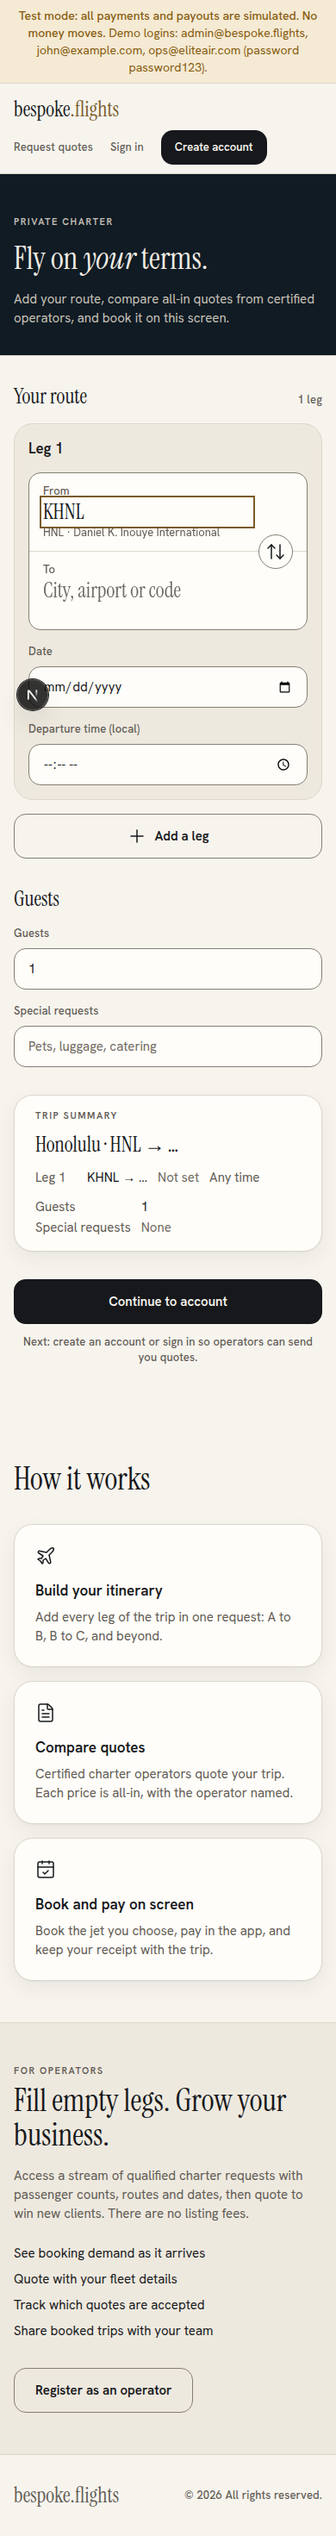
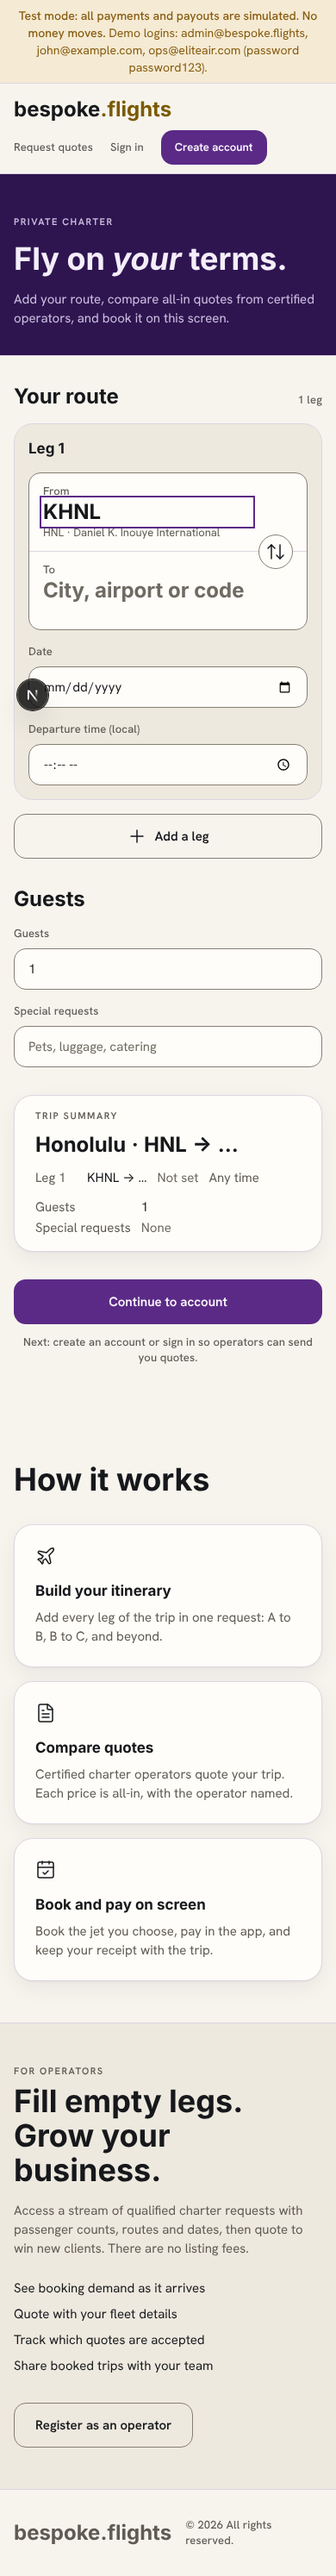
Restyle with royal purple main color, gold accent, Helvetica bold headings
- Night surfaces become deep royal purple; new royal/on-royal tokens for
  primary buttons and selected states.
- Brass tokens shift to gold; contrast verified at WCAG AA.
- h1-h6 and display type use Helvetica bold; drop Instrument Serif.
- Refresh docs/screenshots via scripts/visual-check.mjs (no issues).

Claude-Session: https://claude.ai/code/session_01WCo67zoRmPRsbrwgSXeFrv

diff --git a/src/app/globals.css b/src/app/globals.css
@@ -2,6 +2,7 @@
 
 /*
  * "Charter" design system tokens.
+ * Royal purple is the main color; gold (the --brass tokens) is the accent.
  * Light is the default; dark follows prefers-color-scheme. Set
  * data-theme="light" or data-theme="dark" on <html> to override the system.
  */
@@ -9,19 +10,21 @@
   --surface: #f7f4ee;
   --surface-raised: #fffdf9;
   --surface-sunken: #eee9df;
-  --night: #101b24;
+  --night: #2e1550;
   --ink: #16181b;
   --ink-muted: #5f5b54;
   --ink-subtle: #6f6a62;
   --on-ink: #f7f4ee;
-  --on-night: #f2ede4;
-  --on-night-muted: #c8c2b8;
-  --hairline: #ddd6ca;
+  --royal: #5b2a86;
+  --on-royal: #fbf8ff;
+  --on-night: #f4eefa;
+  --on-night-muted: #cdbfe0;
+  --hairline: #ddd5e2;
   --border-control: #857e72;
-  --brass: #b08d55;
-  --brass-ink: #7a5b28;
-  --on-brass: #16181b;
-  --focus: #7a5b28;
+  --brass: #d4af37;
+  --brass-ink: #7a5a00;
+  --on-brass: #1b0f2b;
+  --focus: #5b2a86;
   --confirmed: #1d5f73;
   --confirmed-tint: #e2edef;
   --warning: #855a0e;
@@ -33,22 +36,24 @@
 }
 @media (prefers-color-scheme: dark) {
   :root:not([data-theme="light"]) {
-    --surface: #0e1114;
-    --surface-raised: #171b20;
-    --surface-sunken: #090b0d;
-    --night: #16222c;
+    --surface: #100c16;
+    --surface-raised: #1a1522;
+    --surface-sunken: #09070d;
+    --night: #26113f;
     --ink: #f2ede4;
     --ink-muted: #a8a299;
     --ink-subtle: #8e887f;
-    --on-ink: #0e1114;
+    --on-ink: #100c16;
+    --royal: #a77ddb;
+    --on-royal: #120a1c;
     --on-night: #f2ede4;
-    --on-night-muted: #c8c2b8;
-    --hairline: #2a2f36;
-    --border-control: #6e6960;
-    --brass: #c9a66b;
-    --brass-ink: #d4b47a;
-  --on-brass: #0e1114;
-    --focus: #d4b47a;
+    --on-night-muted: #c9bcd9;
+    --hairline: #2e2638;
+    --border-control: #6f6580;
+    --brass: #e0bd52;
+    --brass-ink: #e6c766;
+    --on-brass: #120a1c;
+    --focus: #b994e6;
     --confirmed: #7fbccc;
     --confirmed-tint: #122a31;
     --warning: #deb05a;
@@ -60,22 +65,24 @@
   }
 }
 [data-theme="dark"] {
-  --surface: #0e1114;
-  --surface-raised: #171b20;
-  --surface-sunken: #090b0d;
-  --night: #16222c;
+  --surface: #100c16;
+  --surface-raised: #1a1522;
+  --surface-sunken: #09070d;
+  --night: #26113f;
   --ink: #f2ede4;
   --ink-muted: #a8a299;
   --ink-subtle: #8e887f;
-  --on-ink: #0e1114;
+  --on-ink: #100c16;
+  --royal: #a77ddb;
+  --on-royal: #120a1c;
   --on-night: #f2ede4;
-  --on-night-muted: #c8c2b8;
-  --hairline: #2a2f36;
-  --border-control: #6e6960;
-  --brass: #c9a66b;
-  --brass-ink: #d4b47a;
-  --on-brass: #0e1114;
-  --focus: #d4b47a;
+  --on-night-muted: #c9bcd9;
+  --hairline: #2e2638;
+  --border-control: #6f6580;
+  --brass: #e0bd52;
+  --brass-ink: #e6c766;
+  --on-brass: #120a1c;
+  --focus: #b994e6;
   --confirmed: #7fbccc;
   --confirmed-tint: #122a31;
   --warning: #deb05a;
@@ -95,6 +102,8 @@
   --color-ink-muted: var(--ink-muted);
   --color-ink-subtle: var(--ink-subtle);
   --color-on-ink: var(--on-ink);
+  --color-royal: var(--royal);
+  --color-on-royal: var(--on-royal);
   --color-on-night: var(--on-night);
   --color-on-night-muted: var(--on-night-muted);
   --color-hairline: var(--hairline);
@@ -115,7 +124,7 @@
   --radius-pill: 999px;
   --shadow-raised: var(--ds-shadow-raised);
   --shadow-float: var(--ds-shadow-float);
-  --font-display: var(--font-instrument-serif), "Iowan Old Style", Georgia, serif;
+  --font-display: "Helvetica Neue", Helvetica, Arial, sans-serif;
   --font-sans: var(--font-hanken-grotesk), -apple-system, "Helvetica Neue", sans-serif;
 }
 
@@ -140,20 +149,20 @@
   font-family: var(--font-display);
   font-size: 56px;
   line-height: 60px;
-  font-weight: 400;
+  font-weight: 700;
   letter-spacing: -0.01em;
 }
 @utility text-display {
   font-family: var(--font-display);
   font-size: 36px;
   line-height: 40px;
-  font-weight: 400;
+  font-weight: 700;
 }
 @utility text-title {
   font-family: var(--font-display);
   font-size: 24px;
   line-height: 30px;
-  font-weight: 400;
+  font-weight: 700;
 }
 @utility text-heading {
   font-family: var(--font-sans);
@@ -197,6 +206,12 @@ body {
   -webkit-font-smoothing: antialiased;
 }
 
+/* Headings: Helvetica bold, whatever type-scale utility they carry. */
+h1, h2, h3, h4, h5, h6 {
+  font-family: var(--font-display);
+  font-weight: 700;
+}
+
 /* Focus ring on every interactive element. */
 :focus-visible {
   outline: 2px solid var(--focus);
@@ -225,6 +240,8 @@ body {
     --ink-subtle: #333;
     --hairline: #999;
     --brass-ink: #000;
+    --royal: #000;
+    --on-royal: #fff;
     --danger: #000;
     --danger-tint: #fff;
   }

diff --git a/src/app/layout.tsx b/src/app/layout.tsx
@@ -1,14 +1,7 @@
 import type { Metadata } from "next";
-import { Hanken_Grotesk, Instrument_Serif } from "next/font/google";
+import { Hanken_Grotesk } from "next/font/google";
 import "./globals.css";
 import { TestModeBanner } from "@/components/layout/test-mode-banner";
-
-const instrumentSerif = Instrument_Serif({
-  variable: "--font-instrument-serif",
-  subsets: ["latin"],
-  weight: "400",
-  style: ["normal", "italic"],
-});
 
 const hankenGrotesk = Hanken_Grotesk({
   variable: "--font-hanken-grotesk",
@@ -27,7 +20,7 @@ export default function RootLayout({
   children: React.ReactNode;
 }>) {
   return (
-    <html lang="en" className={`${instrumentSerif.variable} ${hankenGrotesk.variable} h-full`}>
+    <html lang="en" className={`${hankenGrotesk.variable} h-full`}>
       <body className="min-h-full flex flex-col font-sans text-body antialiased">
         <TestModeBanner />
         {children}

diff --git a/src/app/(operator)/operator/dashboard/page.tsx b/src/app/(operator)/operator/dashboard/page.tsx
@@ -54,7 +54,7 @@ export default async function OperatorDashboardPage() {
                 Configure your markets, fleet types, safety rating, and contact method so the matching engine can route charter requests to you automatically.
               </p>
             </div>
-            <Link href="/operator/settings" className="rounded-md bg-ink px-4 py-2 text-sm font-semibold text-on-ink hover:opacity-90 transition-colors shrink-0">
+            <Link href="/operator/settings" className="rounded-md bg-royal px-4 py-2 text-sm font-semibold text-on-royal hover:opacity-90 transition-colors shrink-0">
               Configure →
             </Link>
           </div>

diff --git a/src/components/ui/button-styles.ts b/src/components/ui/button-styles.ts
@@ -7,7 +7,7 @@ const base =
   'aria-disabled:opacity-40 aria-disabled:cursor-not-allowed';
 
 const variants: Record<ButtonVariant, string> = {
-  primary: 'bg-ink text-on-ink hover:opacity-90',
+  primary: 'bg-royal text-on-royal hover:opacity-90',
   secondary: 'bg-transparent border border-border-control text-ink hover:bg-surface-sunken',
   quiet: 'bg-transparent text-brass-ink hover:underline underline-offset-4',
   // Destructive confirmation (admin refunds). Not part of the traveler flows.

diff --git a/src/app/(operator)/operator/settings/page.tsx b/src/app/(operator)/operator/settings/page.tsx
@@ -89,7 +89,7 @@ export default function OperatorSettingsPage() {
                   onClick={() => save({ contact_method: method })}
                   className={`flex-1 py-3 text-sm font-medium transition-colors cursor-pointer capitalize ${
                     settings.contact_method === method
-                      ? 'bg-ink text-on-ink'
+                      ? 'bg-royal text-on-royal'
                       : 'text-ink-muted hover:text-ink'
                   }`}
                 >

diff --git a/src/components/ui/segmented.tsx b/src/components/ui/segmented.tsx
@@ -29,7 +29,7 @@ export function Segmented({
             aria-pressed={selected}
             onClick={() => onChange(opt.value)}
             className={`min-h-11 flex-1 rounded-sm px-3 text-label transition-colors duration-200 ease-out cursor-pointer ${
-              selected ? 'bg-ink text-on-ink' : 'text-ink-muted hover:text-ink'
+              selected ? 'bg-royal text-on-royal' : 'text-ink-muted hover:text-ink'
             }`}
           >
             {opt.label}

diff --git a/src/components/operator/print-button.tsx b/src/components/operator/print-button.tsx
@@ -5,7 +5,7 @@ export function PrintButton() {
     <button
       type="button"
       onClick={() => window.print()}
-      className="rounded-md bg-ink px-4 py-2 text-sm font-semibold text-on-ink hover:opacity-90 cursor-pointer"
+      className="rounded-md bg-royal px-4 py-2 text-sm font-semibold text-on-royal hover:opacity-90 cursor-pointer"
     >
       Print
     </button>
